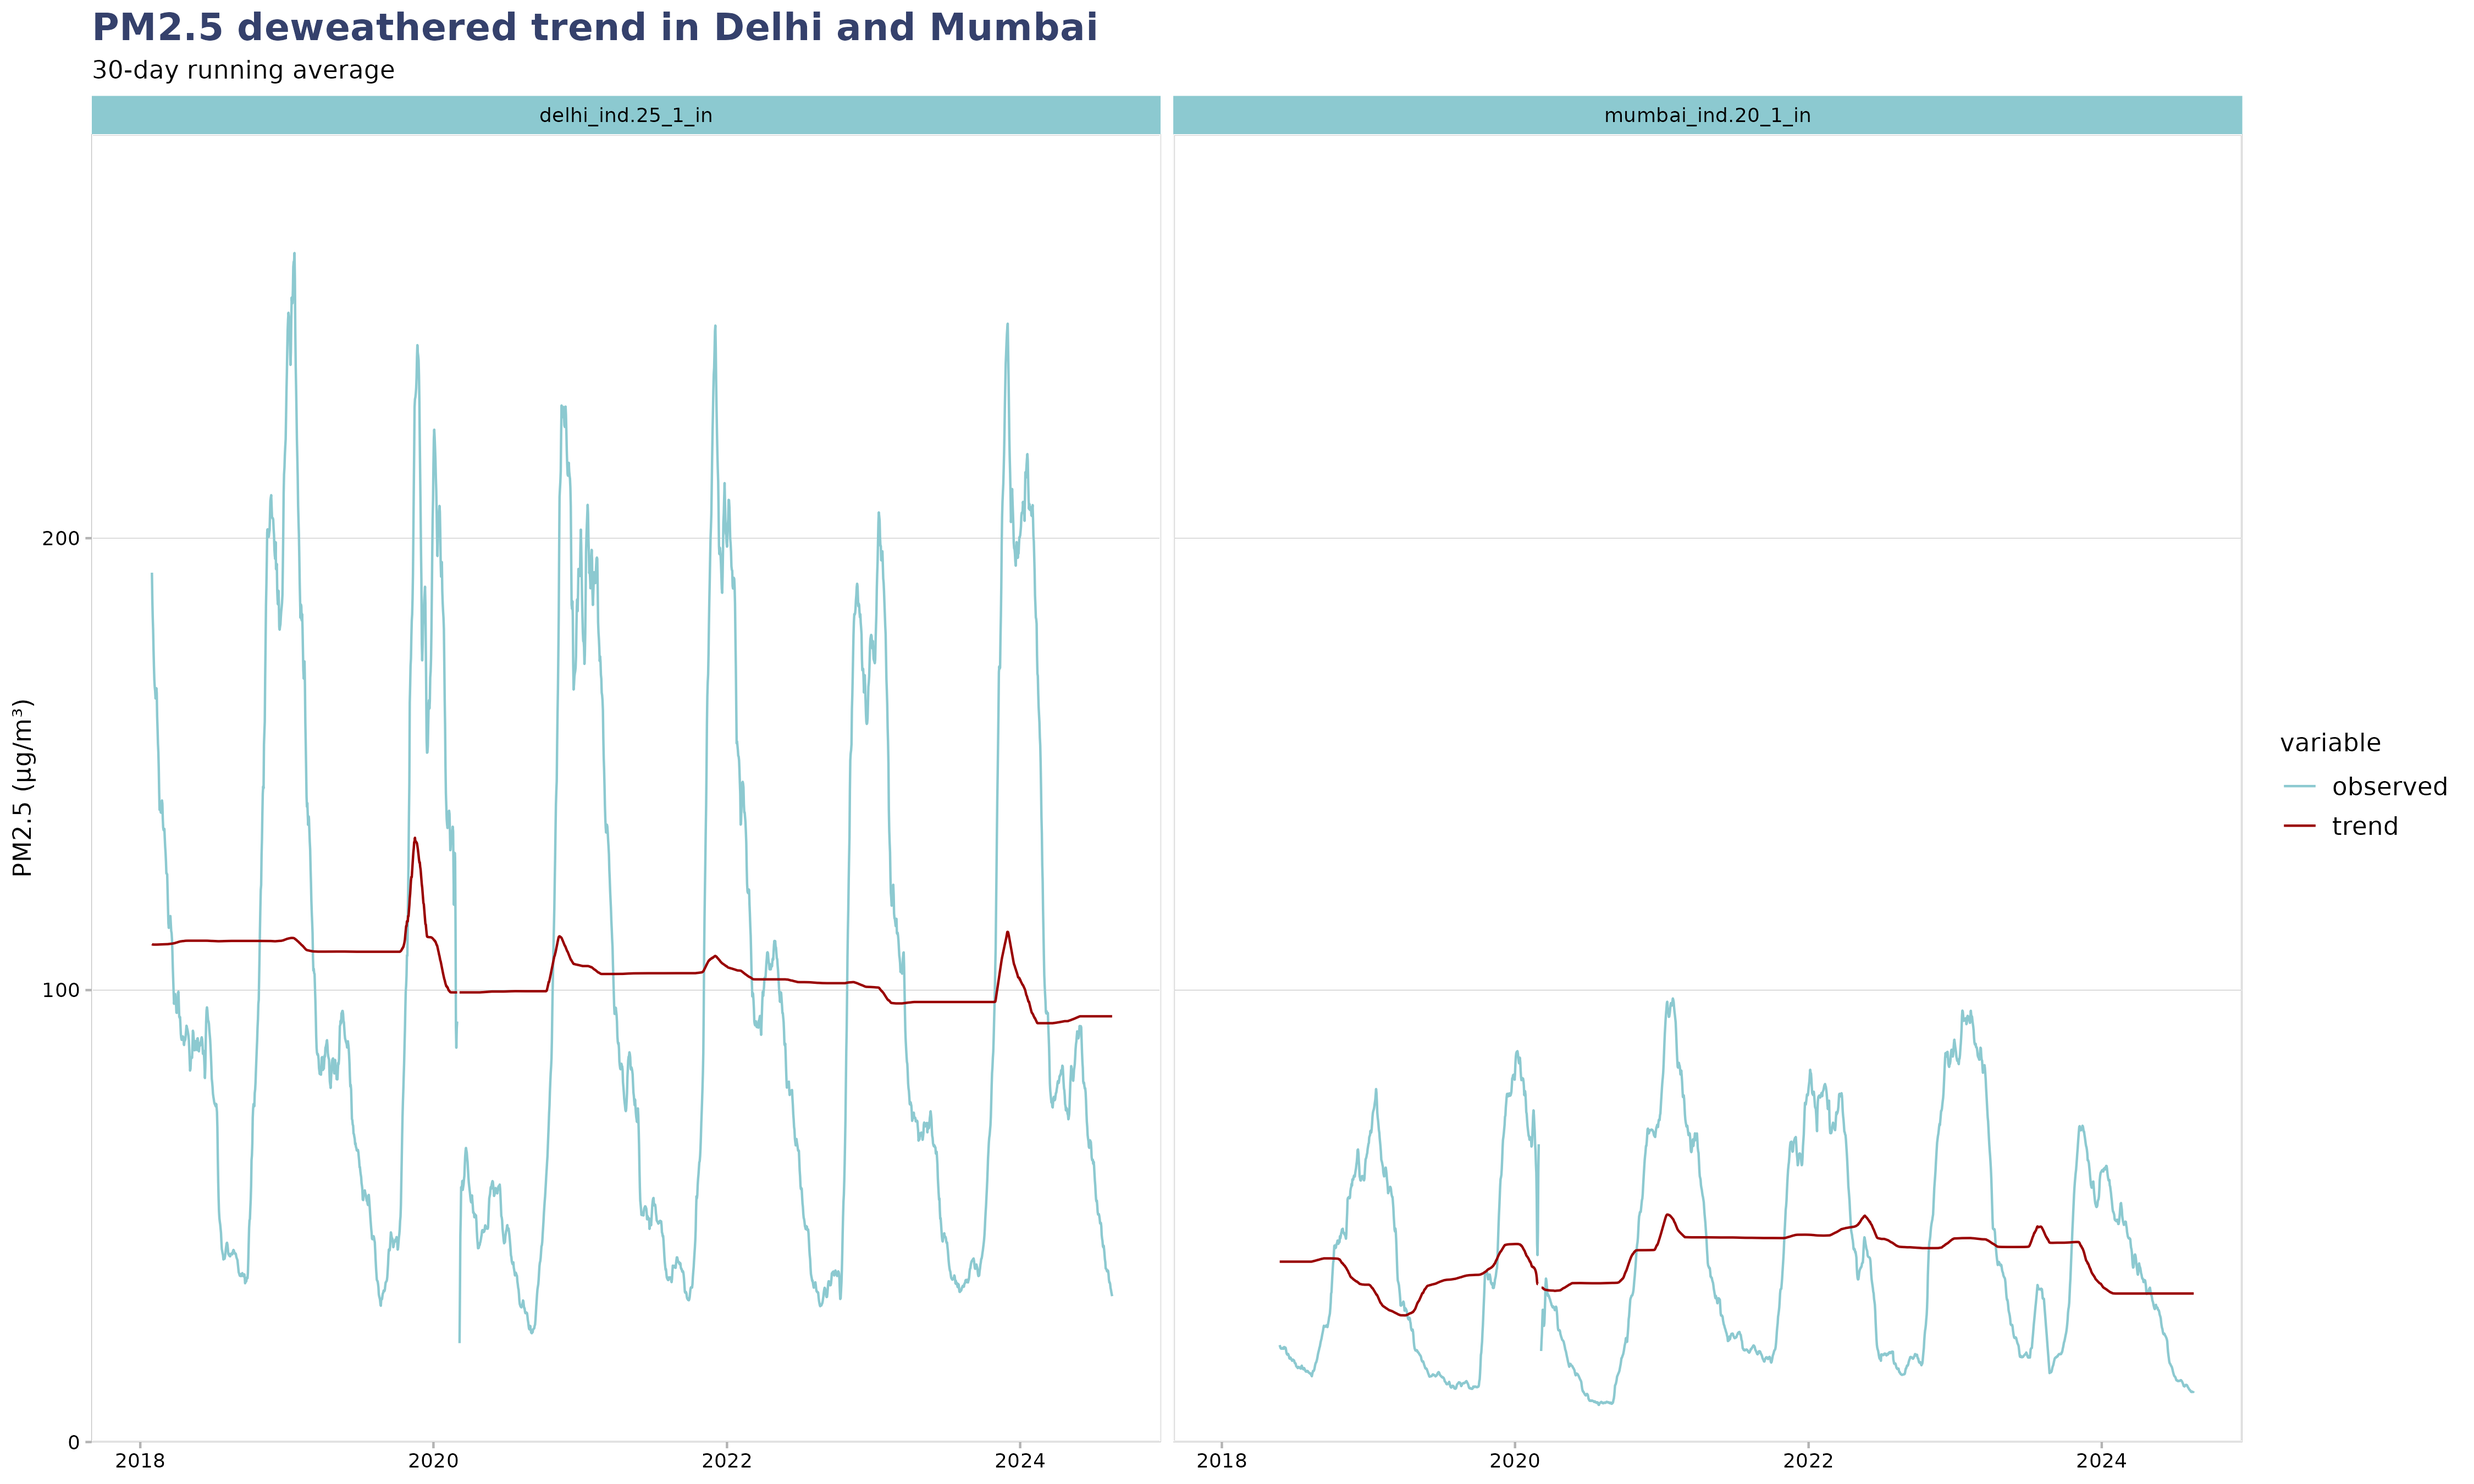
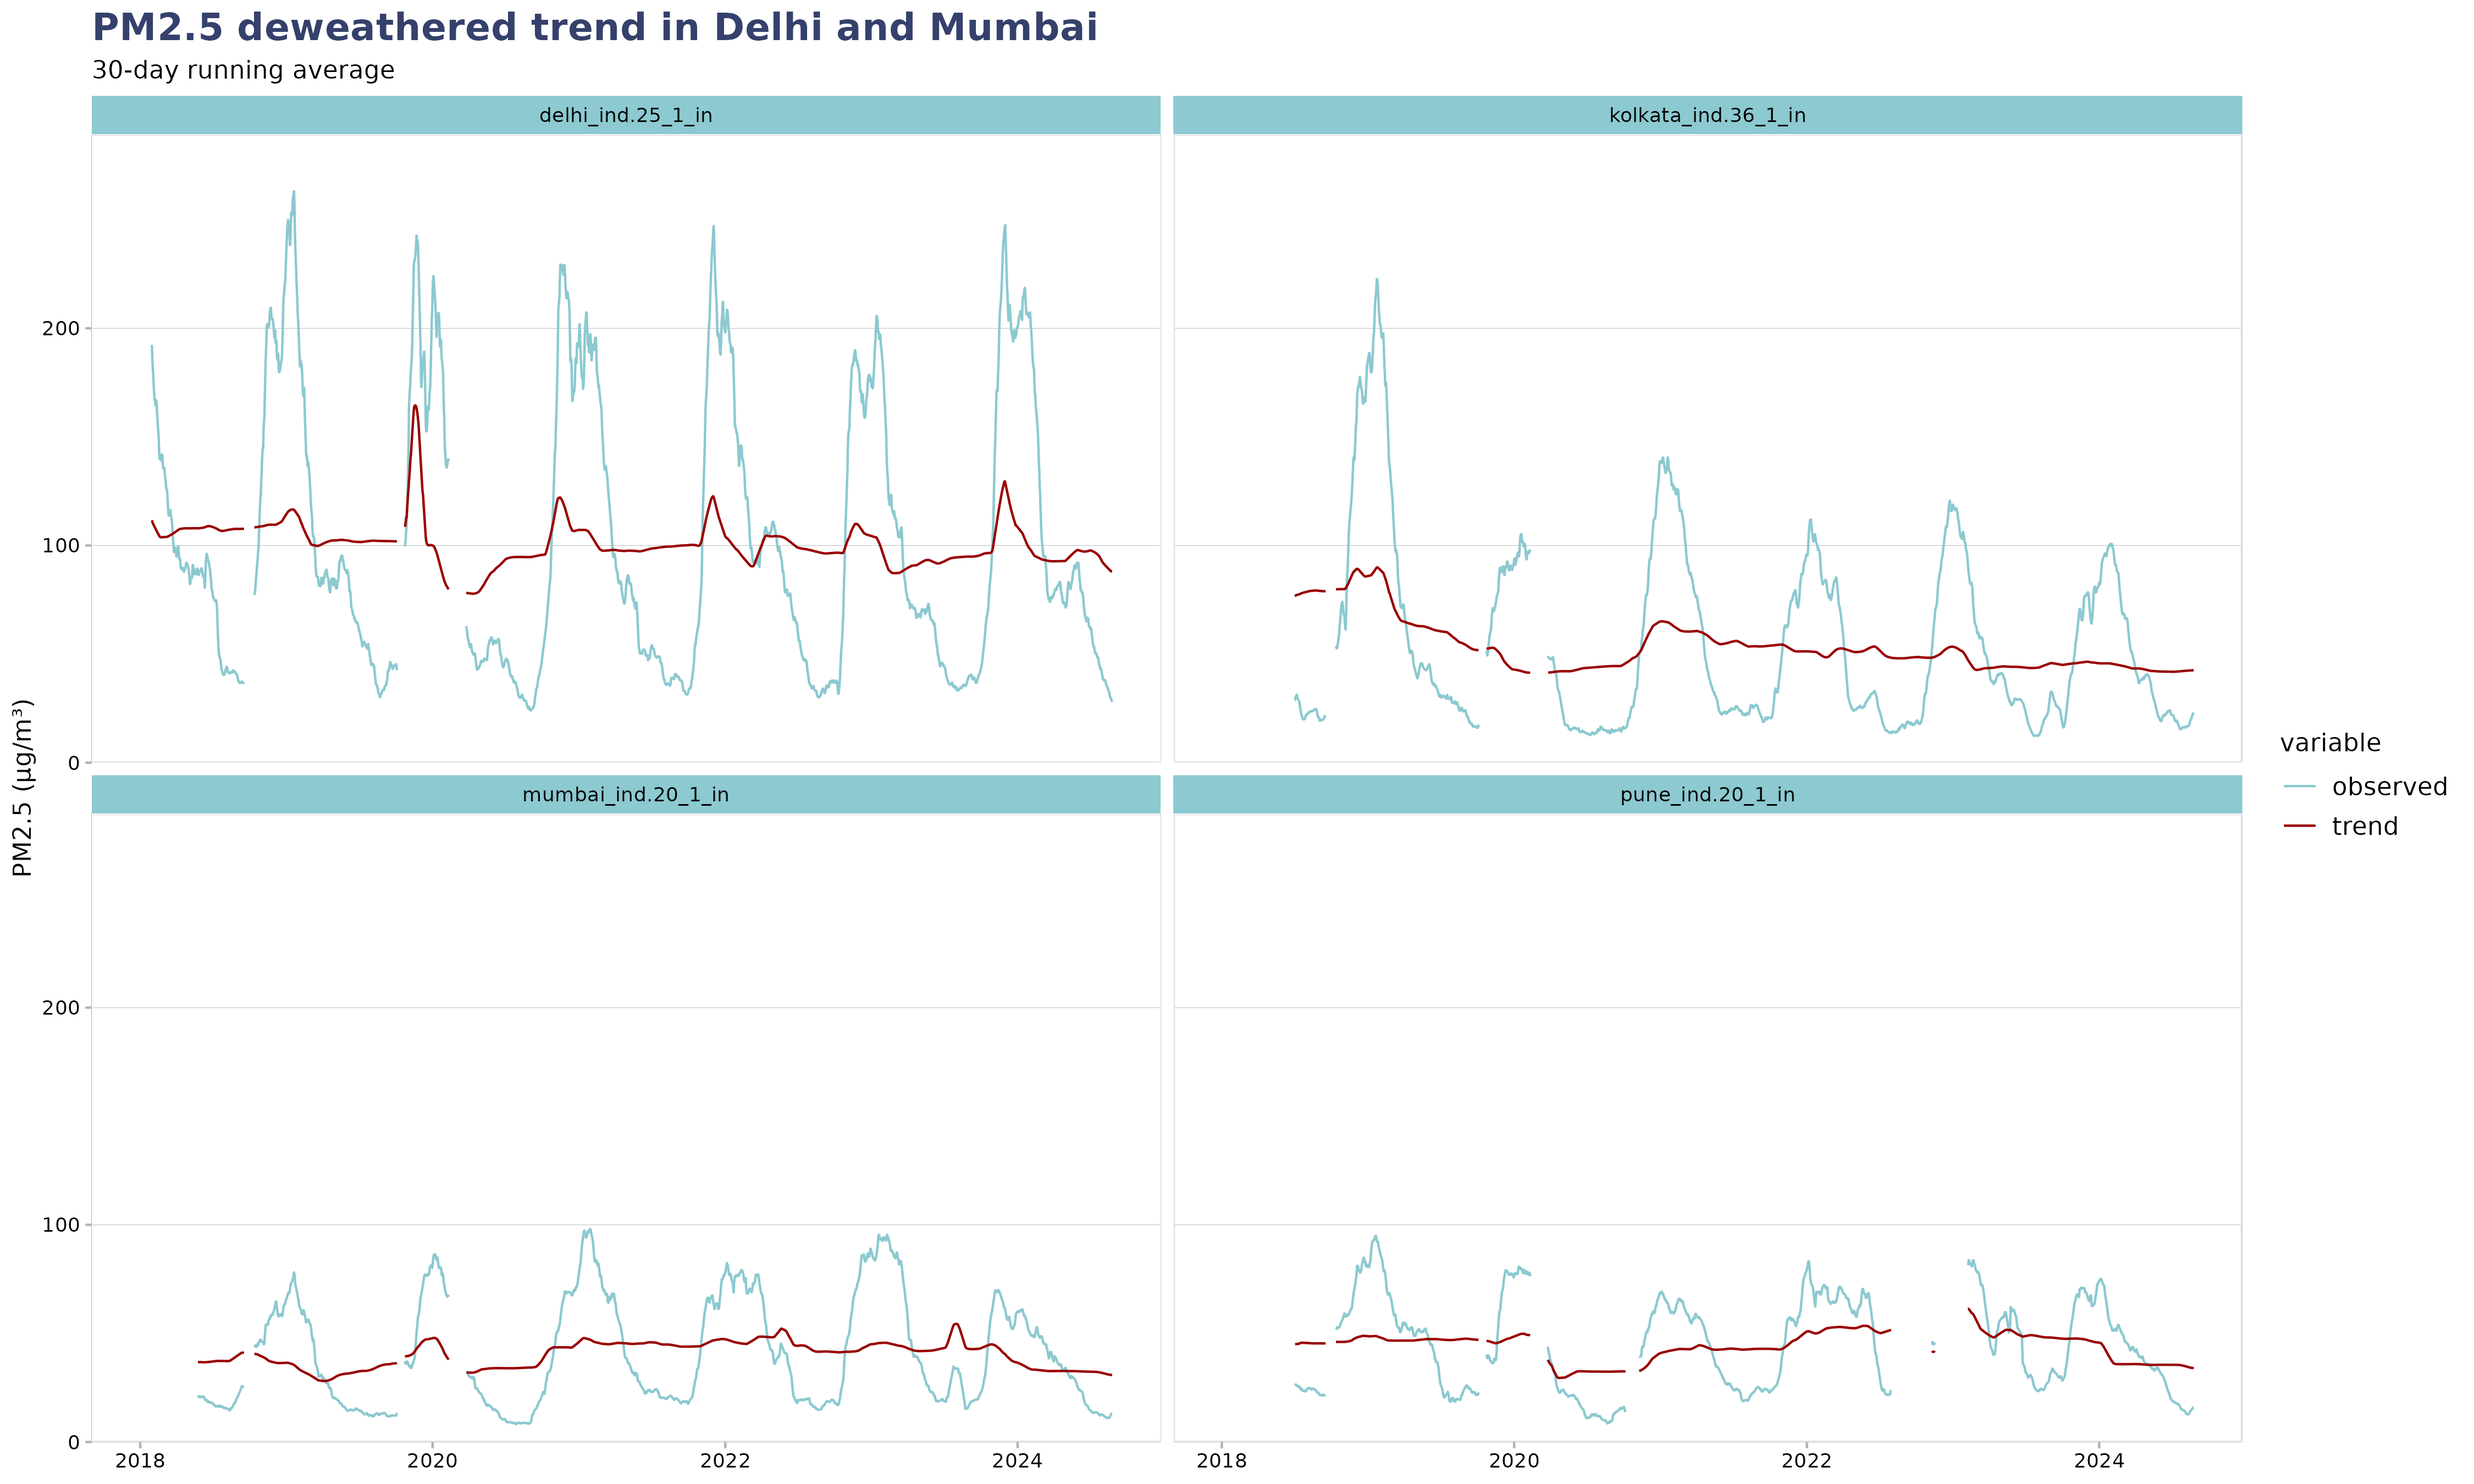
-updated documentation

diff --git a/doc/deweathering.md b/doc/deweathering.md
@@ -9,12 +9,7 @@ Deweathering refers to the process of correcting for the influence of weather on
 
 ## Methodology: Deweathering Air Pollution Data
 
-Deweathering is achieved by training a machine learning morel (in our case a Gradient Boosting Machine) to predict air pollution levels based on weather-related variables. This model can be used in two ways, depending on the desired application.
-
-- **Trend analysis**: a trend term (i.e. the date) is added as a predictor in the model. The trained model is then rerun with a sample of weather conditions for each date individually. The daily average of the resulting predictions are then identified with the "weather-corrected" trend.
-
-
-- **Residual analysis**: The residuals from this model, representing the difference between the predicted and actual pollution levels, are interpreted as the component of air pollution that cannot be explained by weather conditions. This difference is assumed to be primarily driven by change in emissions.
+Deweathering is achieved by training a machine learning morel (in our case a Gradient Boosting Machine) to predict air pollution levels based on weather-related variables and a trend term.
 
 ### 1. Data Inputs
 
@@ -49,15 +44,9 @@ Trend analysis of deweathered data allows for the identification of long-term ch
 ![trendts](figures/deweathering_ts_trend.png)
 
 
-### 2. Monthly Year-over-Year (Y-o-Y) Analysis of Weather vs. Emissions
+### 2. Monthly Year-over-Year (Y-o-Y) Analysis
 
-This application relies on residual analysis: the model is trained on a dataset that excludes the months of interest i.e. the month we are interested in and the same month the prior year. The model is then used to "predict" the air quality for the two months. The change in predicted levels between the two months is attributed to weather conditions, as they were predicted using weather conditions alone. The difference with the observed change in air quality is attributed is attributed to change in emissions.
-
-
-Below is the observed, predicted and residual (i.e. observed - predicted), also called *anomaly* PM2.5 over time in Delhi, India. The orange areas represents the dates that were explicitely excluded from the training dataset (on top of the fraction dedicated to model validation and testing).
-![yoyts](figures/deweathering_ts_yoy.png)
-
-
+By comparing the value of this trend term across different periods, it is possible to estimate the part of observed changes in concentration that is due to weather and the part that is attributable to other factors (assumed to be driven by change in emissions).
 
 The respective influence of weather and emissions in the year-on-year changes of air quality are shown in the chart below.
 
@@ -66,6 +55,15 @@ The respective influence of weather and emissions in the year-on-year changes of
 From this chart, one can conclude that:
 - Delhi's observed increase of PM2.5 levels (+16%) were due to weather conditions. After correcting for these, we would expect an actual decrease of 10%.
 - Mumbai's observed decrease of PM2.5 levels (-62%) was almost entirely due to change in emissions.
+
+## Appendix
+### Model parameters
+We conducted a grid analysis of GBM hyper-parameters (e.g. interaction depth, days of lag, cv_folds, learning rate) on five Indian cities, and picked these values that minimise RMSE and maximise R2 (there was no ambiguity):
+- interaction depth: 7
+- learning rate: 0.01
+- maximum number of trees: 20,000
+- cv_folds: 2
+
 
 ## References
 Grange, S. K., & Carslaw, D. C. (2019). Using meteorological normalisation to detect interventions in air quality time series. Science of the Total Environment, 653, 578–588. https://doi.org/10.1016/j.scitotenv.2018.10.344
